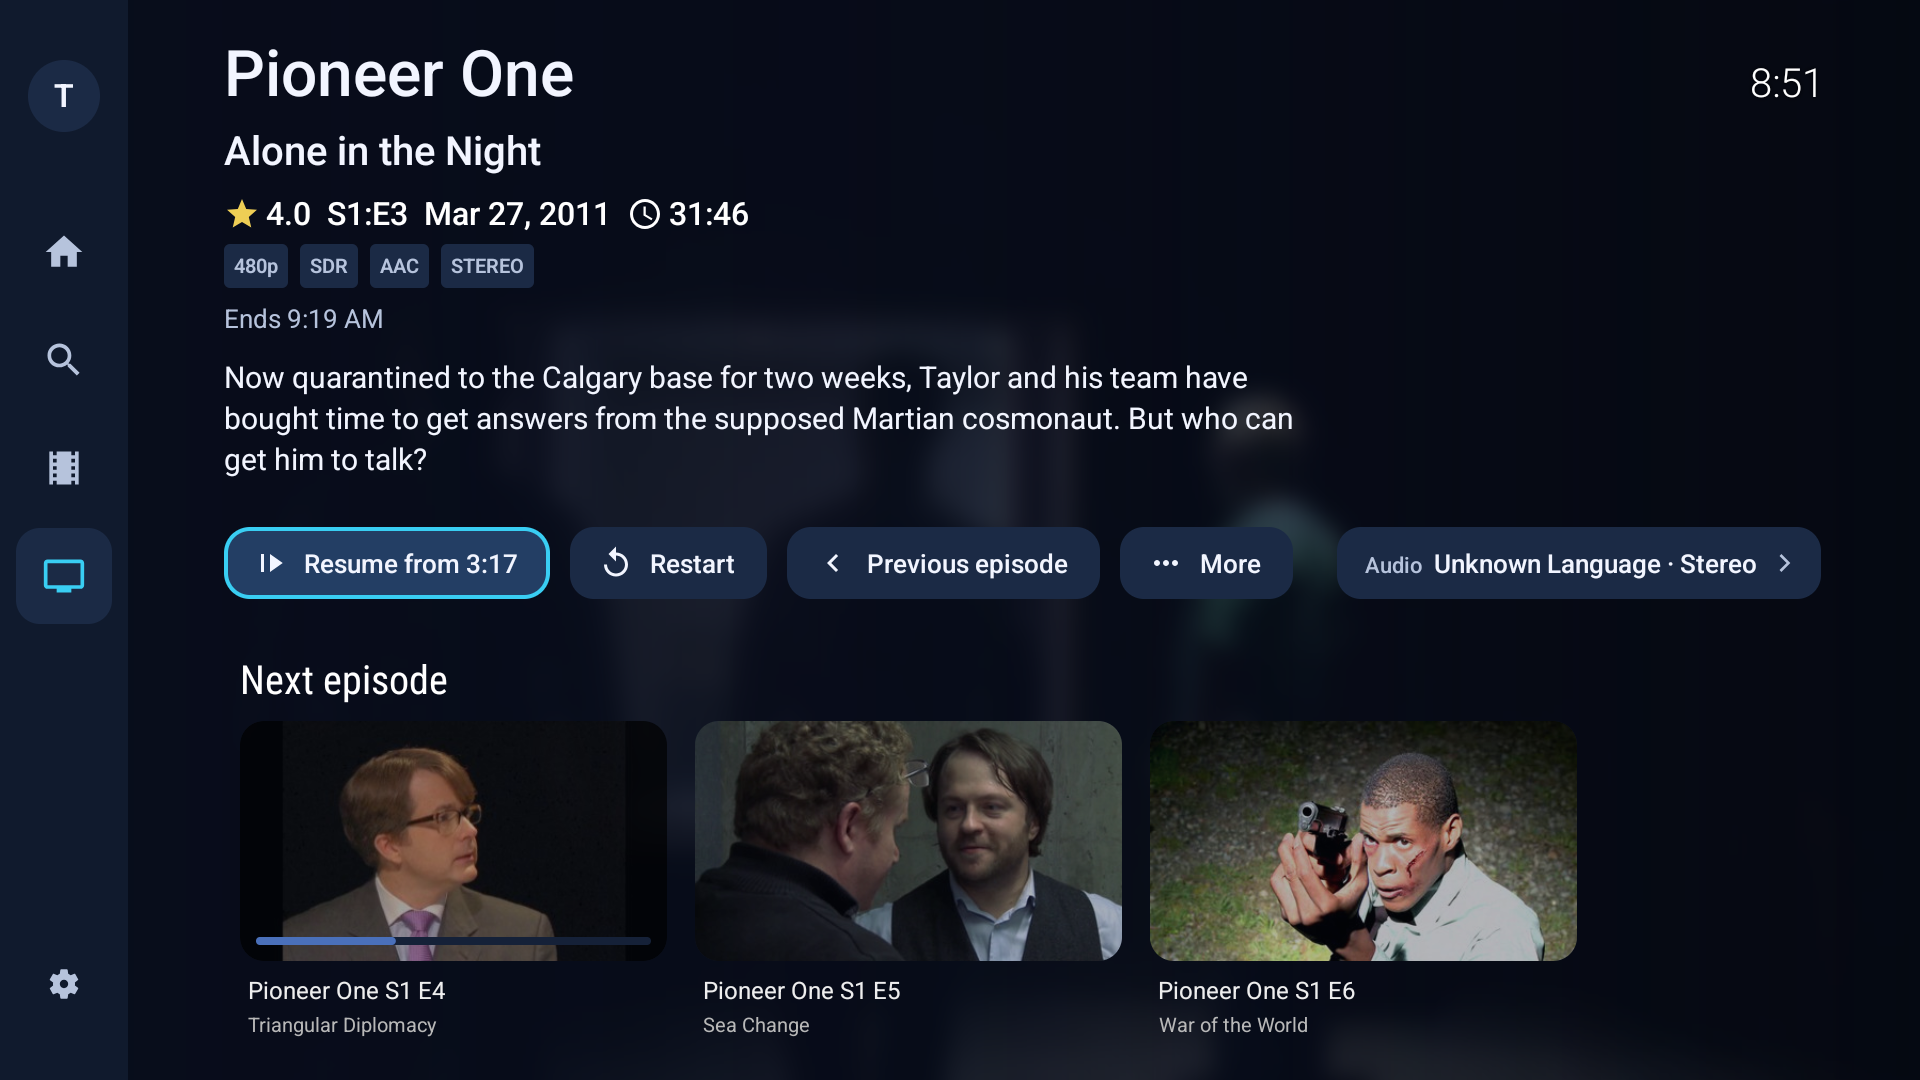
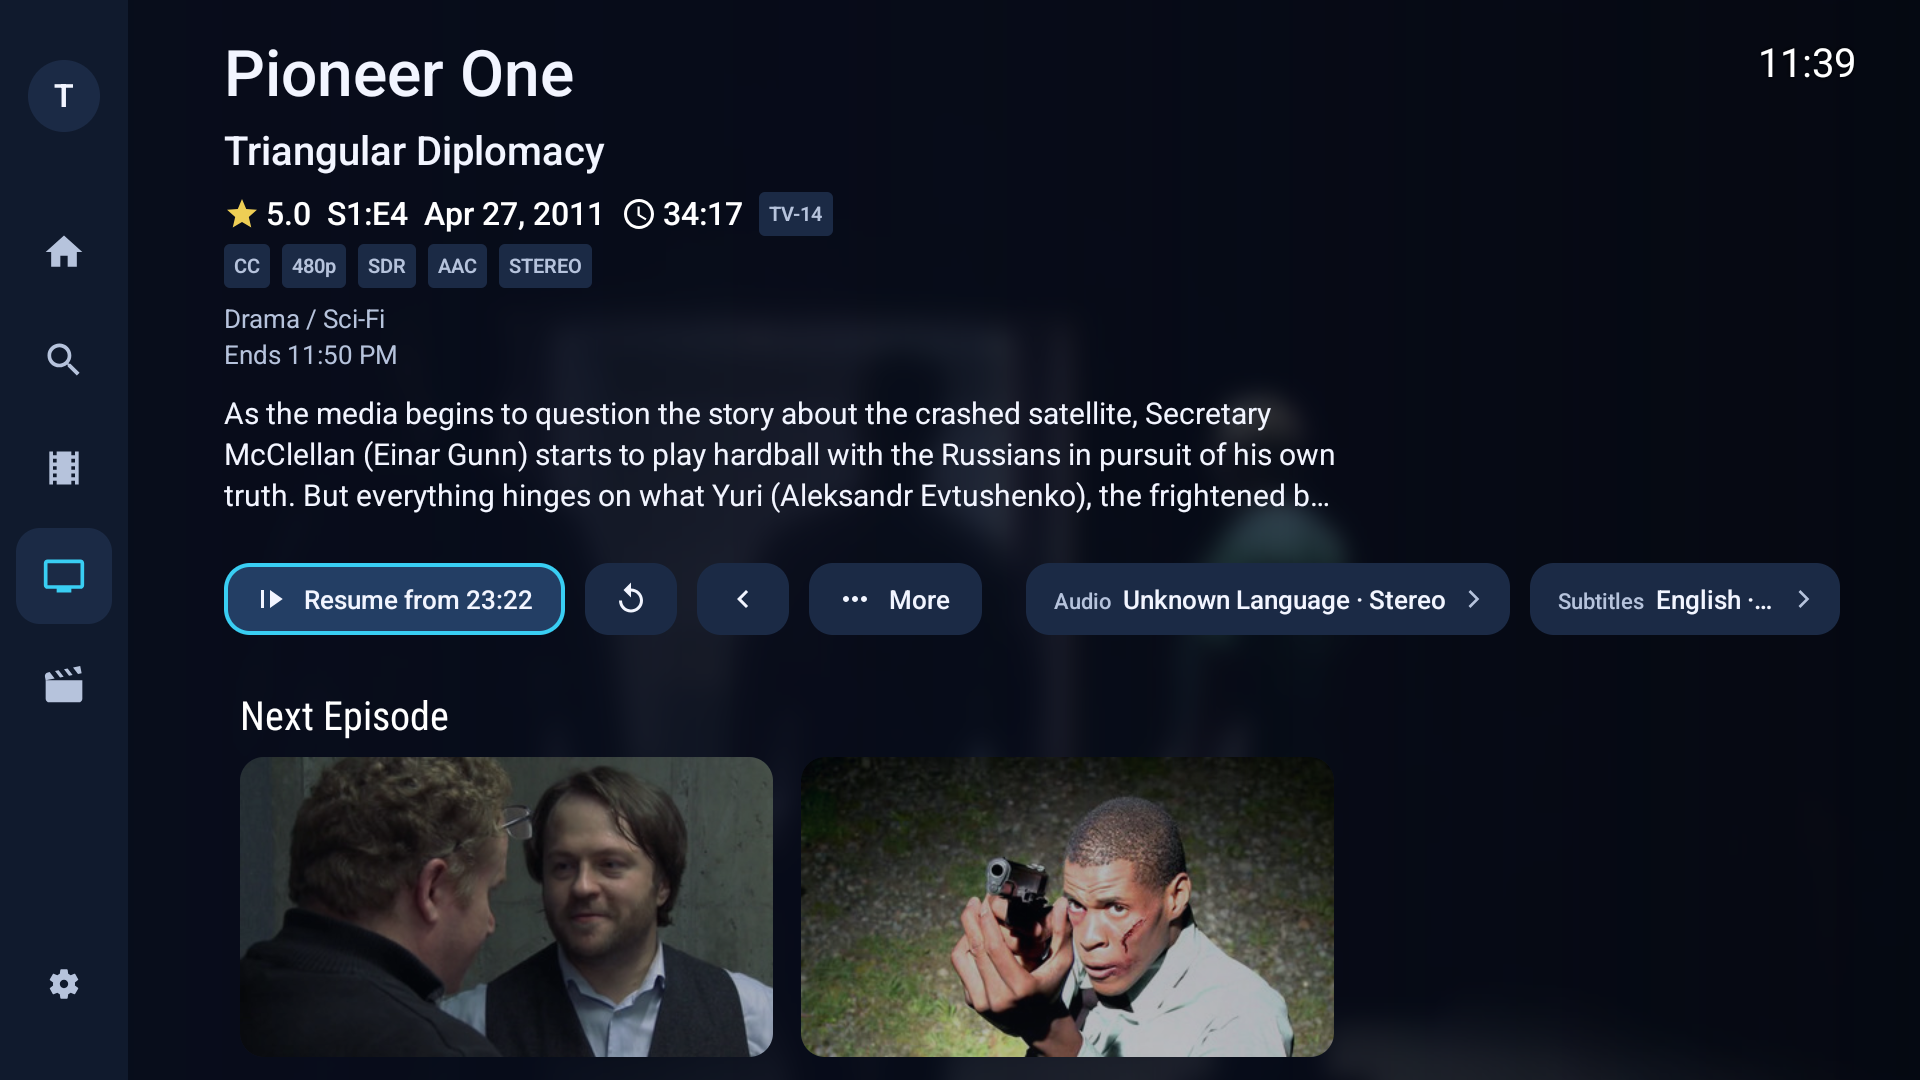
README: new 1.2 screenshots, with requests and settings

diff --git a/README.md b/README.md
@@ -33,14 +33,22 @@ This is not an officially supported Jellyfin project - it's built for personal u
 ### Home screen
 
 <p align="center">
-  <img alt="LumaFin home screen with the side menu, Latest Movies row and a preview of the focused title" src="docs/screenshots/home-screen.png" width="100%" />
+  <img alt="LumaFin home screen with the side menu, Sprite Fright focused in the New Movie Releases row and its title, rating, runtime, description and title logo above the rows" src="docs/screenshots/home-screen.png" width="100%" />
 </p>
 
 ### Details screens
 
 | Movie details | Episode details |
 | --- | --- |
-| <img alt="LumaFin movie details screen with title logo, quality tags, actions, audio and subtitle choices and cast" src="docs/screenshots/movie-details.png" /> | <img alt="LumaFin episode details screen with Resume, Restart and Previous episode buttons and a Next episode row" src="docs/screenshots/episode-details.png" /> |
+| <img alt="LumaFin movie details screen with title logo, quality tags, Play, Watched and More buttons, audio and subtitle choices and a Cast and Crew row" src="docs/screenshots/movie-details.png" /> | <img alt="LumaFin episode details screen with Resume, Restart and Previous episode buttons and a Next Episode row" src="docs/screenshots/episode-details.png" /> |
+
+### Request movies and shows
+
+With the SeerrFin plugin on your server, Home shows what's trending and coming soon, and every title opens its own page.
+
+| Trending and upcoming | Title page |
+| --- | --- |
+| <img alt="LumaFin Home with Trending Shows and Upcoming Movies rows from Seerr and a preview of the focused show" src="docs/screenshots/seerr-discover.png" /> | <img alt="LumaFin page for a show that isn't in the library yet, with Request and Trailer buttons, cast and a More Like This row" src="docs/screenshots/seerr-title.png" /> |
 
 ### Playback
 
@@ -50,19 +58,30 @@ This is not an officially supported Jellyfin project - it's built for personal u
 
 ### Libraries
 
-| Library grid | Filters |
+| Recommended | Library grid |
 | --- | --- |
-| <img alt="LumaFin movie library with tabs, a grid of landscape cards and an A to Z strip" src="docs/screenshots/library-grid.png" /> | <img alt="LumaFin library Filters panel with switches" src="docs/screenshots/library-filters.png" /> |
+| <img alt="LumaFin movie library on the Recommended tab with Recently Added and Top Rated rows" src="docs/screenshots/library-recommended.png" /> | <img alt="LumaFin movie library on the Library tab with a grid of landscape cards, an A to Z strip and sort and filter icons" src="docs/screenshots/library-grid.png" /> |
 
-### Home customization and profiles
+| Filters |
+| --- |
+| <img alt="LumaFin library Filters panel with switches" src="docs/screenshots/library-filters.png" width="50%" /> |
 
-| Home customization | Who's watching |
+### Settings
+
+| Settings | Home rows |
 | --- | --- |
-| <img alt="LumaFin Home customization panel with a visibility toggle and move handle on each section" src="docs/screenshots/home-customization.png" /> | <img alt="LumaFin profile picker with the LumaFin logo" src="docs/screenshots/account-picker.png" /> |
+| <img alt="LumaFin full-screen settings with a category menu on the left and Home options on the right" src="docs/screenshots/settings.png" /> | <img alt="LumaFin Home sections list with a visibility icon and move handle on each section" src="docs/screenshots/home-customization.png" /> |
+
+### Profiles
+
+<p align="center">
+  <img alt="LumaFin Who's watching profile picker with two profiles and Add User" src="docs/screenshots/account-picker.png" width="50%" />
+</p>
 
 <sub>Screenshots show Creative Commons films from Blender Studio ([studio.blender.org](https://studio.blender.org/films/)),
 CC BY: Elephants Dream, Big Buck Bunny, Sintel, Tears of Steel, Caminandes, Cosmos Laundromat, Agent 327, Spring,
-Sprite Fright and Charge; and Pioneer One by Josh Bernhard and Bracey Smith, Creative Commons.</sub>
+Sprite Fright and Charge; and Pioneer One by Josh Bernhard and Bracey Smith, Creative Commons. Titles in the request
+screenshots come from Seerr and TMDB and belong to their owners.</sub>
 
 ## What's different from upstream
 
